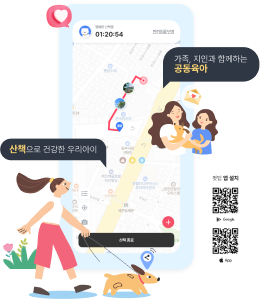
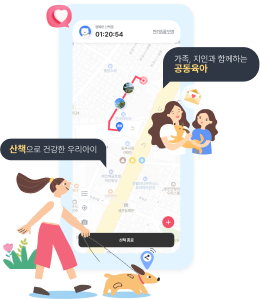
수정사항 반영

Changed region(s): [[0.8, 0.5719, 0.9231, 0.903]]

diff --git a/css/common.css b/css/common.css
@@ -2,14 +2,16 @@
 
 html, body {background-color: #CFEDFF;width: 100%;}
 @media (min-width: 1024px) {
-    html, body {height:100%;overflow: hidden;} 
+    html, body {height:100%;overflow: hidden;max-height: 920px;} 
     .btn-arrow-down {display: none;}
 }
 body.modal-open {height: 100%;overflow: hidden;}
 .wrap {width:100%;max-width: 1066px;height:100%;margin: 0 auto;display: flex;justify-content: space-between;}
 .left-sect {display: flex;flex-direction: column; padding-top: 83px;}
 .left-sect .logo {text-align: center;}
-.left-sect .main-img {margin-top: 22px;}
+.left-sect .main-img {position: relative; margin-top: 22px;}
+.left-sect .main-img .qr-box {position: absolute;right:37px;bottom:56px;width: 86px;padding:8px 0;gap: 8px; border: 1px solid #fff;border-radius: 16px;display: flex;align-items: center;justify-content: center;}
+.left-sect .main-img .qr-box dl {display: flex;flex-direction: column; gap: 8px;}
 .left-sect .footer {margin-top:30px;position: relative;font-size: 12px;color:#555;line-height: 18px;display: flex;justify-content: space-between;}
 .left-sect .footer .button-area {display: flex;flex-direction: column;justify-content: space-between; height: 100%;gap: 5px;}
 .left-sect .footer .button-area a {display: block;text-align: center;width: 106px;height: 21px;background-color: #fff;border-radius: 7px;font-size: 12px;color:#222;}
@@ -84,6 +86,7 @@ body.modal-open {height: 100%;overflow: hidden;}
 
 .hash-tag {display: flex;gap: 8px;margin-top: 60px;}
 .hash-tag a {padding: 0 12px;height: 32px;background-color: #F4F8FF;border-radius: 10px;font-size:16px;color:#4783F5;box-shadow: 0px 4px 4px rgba(0, 0, 0, 0.25);}
+.hash-tag span {padding: 0 12px;height: 32px;background-color: #F4F8FF;border-radius: 10px;font-size:16px;color:#4783F5;}
 
 .command-area {display: flex;flex-direction: column;padding: 36px 28px;}
 .command-area .command-counter {background-color: #fff;padding:0 12px;height: 36px;border-radius: 10px;font-size:16px;color:#737980;border: 1px solid #B1CEFF;display: flex;align-items: center;justify-content: center;max-width: fit-content;gap: 6px;}
@@ -125,9 +128,13 @@ body.modal-open {height: 100%;overflow: hidden;}
 .alert-wrap .btn-close-alert {width:39px;height:39px;position: absolute;right:10px;top:10px;background: url('../image/btn-close-x-bl.svg') no-repeat center;}
 
 /* 팝업 */
-.popupModal {width:100%;max-width: 620px;left: 50%;top:50%;transform: translate(-50%,-50%); position:fixed;z-index:11;}
+.popupModal {width:100%;max-width: 620px;left: 50%;top:50%;transform: translate(-50%,-50%); position:fixed;z-index:11;display:none;}
+.popupModal.is-active {display: block;}
 .popupModal .popup-inner {border-radius: 20px;width: 100%;height: 100%;overflow: hidden;background:#EF7086;}
 .popupModal .popup-inner .close-wrap {height: 72px;background-color: #FFF3C9;display: flex;align-items: center;justify-content: space-between;padding: 0 21px;}
+
+.pc-only {display: block;}
+.mo-only {display: none;}
 
 /* checkbox */
 .checkbox-wrap {display: flex;align-items: center;}
@@ -163,16 +170,22 @@ body.modal-open {height: 100%;overflow: hidden;}
 
 @media (max-width: 1023px) {
     .wrap {width:100%;max-width: 100%;height:auto;flex-direction: column;justify-content: center;}
-    .left-sect {align-items: center; padding: 10% 0;justify-content: space-between;}
-    .left-sect .footer {text-align: center;}
-    .left-sect .footer .button-area {position:relative;top:auto;right: auto; flex-direction: row;justify-content: center; height: auto;gap: 14px;margin-top: 12px;}
-    .btn-arrow-down {cursor: default; display: block;text-align:center;position: relative; width:75px;height:46px;font-size: 19px;color:#80ABFF;font-weight: 500;margin:5% auto 0;}
+    .left-sect {align-items: center; padding: 88px 0 0;justify-content: space-between;}
+    .btn-arrow-down {display: block;text-align:center;position: relative; width:75px;height:46px;font-size: 19px;color:#80ABFF;font-weight: 500;margin:35px auto;}
     .btn-arrow-down::after {content: '';margin-top:5px;width: 25px;height:18px;display:inline-block; background-image: url('../image/icon-arrow-down.svg');background-position: center;background-size: 25px auto;animation: moveUpDown 1s infinite alternate cubic-bezier(0.4, 0, 0.2, 1);}
+
+    .left-sect .footer {margin-top:22px;font-size: 14px;line-height: 19px;flex-direction: column; justify-content: center;}
+    .left-sect .footer .button-area {flex-direction: row;justify-content: center;gap: 15px;margin-top:12px;}
+    .left-sect .footer .button-area a {line-height: 22px;font-size: 12px;height: 22px;padding: 0 12px;width: auto;}
+    
+
     .right-frame {margin: 0 auto;height: 100vh;overflow: hidden;}
     .tab-area ul li button {border-radius: 15px;}
     .pc-img {display: none;}
     .mo-img {display: none;}
-    .tablet-img {display: block;}
+    .tablet-img {display: block;width: 100%;max-width: none;height: 100%;max-height: 670px;}
+    .left-sect .main-img .qr-box {right:41px;bottom:67px;width: 86px;padding:8px 0;}
+
     .modal-wrap {position: fixed;}
     @keyframes moveUpDown {
         0% {
@@ -184,15 +197,21 @@ body.modal-open {height: 100%;overflow: hidden;}
     }
 }
 
-@media (max-width: 768px) {    
-    .left-sect {padding: 8% 0;}
+@media (max-width: 767px) {    
+    .left-sect {padding: 51px 0 0;}
     .left-sect .logo img {width: 165px;}
-    .left-sect .main-img {display: flex;flex: 1; align-items: center;justify-content: center;padding: 0 42px;}
-    .left-sect .main-img img {width: 100%;max-width: 80%;}
+    .left-sect .main-img {padding: 0 26px;}
+    
     .pc-img {display: none;}
-    .mo-img {display: block;}
+    .mo-img {display: block;width: 100%;max-width: 100%;}
     .tablet-img {display: none}
-    .btn-arrow-down {margin-top: 2;}
+    .pc-only {display: none;}
+    .mo-only {display: block;}
+    .btn-arrow-down {margin-top: 22px;margin-bottom: 17px;}
+    .left-sect .main-img .qr-box {right:12px;bottom:30px;width: 43px; border-radius: 8px;padding: 6px 0;gap:0;}
+    .left-sect .main-img .qr-box dl {gap: 4px;}
+    .left-sect .main-img .qr-box dl dt img {width:31px;}
+    .left-sect .main-img .qr-box dl dd img {width:30px;}
 
     .right-frame .title-Wrap {height: 32px;}
     .right-frame .title-Wrap h2 img {width: 56px;}
@@ -208,11 +227,13 @@ body.modal-open {height: 100%;overflow: hidden;}
     .tab-cont {height: calc(100% - 136px);}
     .story-list-wrap {padding: 0 16px;}
     .item-wrap {height: auto;}
-    .item-wrap .item-infor {right:16px;bottom:12px;left: 16px;}
-    .item-wrap .item-infor a {font-size: 16px;line-height: 19px;}
-    
+    .item-wrap .item-infor {right:16px;bottom:16px;left: 16px;}    
+    .item-wrap .item-infor .label-area {margin-top: 12px;}
+    .item-wrap .item-infor .tit {font-size:16px;line-height: 19px;}
+    .item-wrap .item-infor .label-area span {font-size:12px;height: 20px;line-height:20px;padding: 0 8px;}
+    .item-wrap .util-area  {top: 16px;right: 16px;}
     .page-location-area {padding: 18px;gap:5px;}
-    .page-location-area .btn-back {width: 20px;height: 20px;background: url('../image/go-back.svg') no-repeat center;background-size: 20px auto;}
+    .page-location-area .btn-back {width: 20px;height: 20px;background-size: 13px auto;}
     .page-location-area p {font-size:16px;}
     .article-title-area {padding: 8px 16px 16px;}
     .article-title-area h2 {font-size: 20px;line-height: 24px;}
@@ -221,7 +242,10 @@ body.modal-open {height: 100%;overflow: hidden;}
     .content_wrap {height: calc(100% - 90px);}
     .command-area {padding: 26px 16px;}
     .command-inner-wrap .commond-cont .command {font-size:16px;line-height: 24px;}
-    .swiper-horizontal>.swiper-pagination-bullets, .swiper-pagination-bullets.swiper-pagination-horizontal, .swiper-pagination-custom, .swiper-pagination-fraction {bottom:0 !important;}
+    .swiper-horizontal>.swiper-pagination-bullets,
+    .swiper-pagination-bullets.swiper-pagination-horizontal, 
+    .swiper-pagination-custom, 
+    .swiper-pagination-fraction {bottom:0 !important;}
     .modal-wrap .nobg-layer ul {gap: 28px;}
     .modal-wrap .nobg-layer ul li img {width:56px;}
     .article-title-area .label-top {gap:3px;}
@@ -230,9 +254,12 @@ body.modal-open {height: 100%;overflow: hidden;}
     .hash-tag a {padding: 0 6px;height: 28px;font-size: 12px;line-height: 28px;}
 
     .left-sect .footer {margin-top:16px;font-size: 10px;line-height: 16px;flex-direction: column; justify-content: center;}
-    .left-sect .footer .button-area {flex-direction: row;justify-content: center;gap: 5px;}
-    .left-sect .footer .button-area a {line-height: 20px;font-size: 10px;}
+    .left-sect .footer .button-area {gap: 5px;}
+    .left-sect .footer .button-area a {line-height: 21px;font-size: 10px;}
     
+    .detail-section {top:33px;height: calc(100% - 33px);}
+    .content-scroll {width: 100%;height: calc(100% - 56px);overflow: auto;}
+
     .btn-wrap-more {padding: 16px 0;}
     .btn-wrap-more img {width: 33px;height:33px;}
 
@@ -240,27 +267,23 @@ body.modal-open {height: 100%;overflow: hidden;}
     .popupModal {max-width: 90%;}    
     .popupModal .popup-inner .close-wrap {height: 40px;background-color: #FFF3C9;display: flex;align-items: center;justify-content: space-between;padding: 0 21px;}
     .popupModal .popup-cont img {width: 100%;max-width: 100%;}
+    .alert-wrap {max-width: 90%;}
 
     .btn-close-popup button {font-size: 16px;}    
     .checkbox input[type="checkbox"] + label{        
-        padding-left: 25px;
+        padding-left: 20px;
         font-size:16px;        
     }
     .checkbox input[type="checkbox"] + label::after {
         content:'';        
         width: 16px;
         height: 16px;     
-        top:0px;
+        background-size: 9px auto;
+        top:2px;
     } 
     .checkbox input[id="chk-pop"]:checked + label::after{
         content:''; 
         background: #E85473 url('../image/icon-checkbox-check.svg') no-repeat center center;
         background-size: 15px auto;
     }    
-}
-
-@media (max-width: 540px) {  
-    .left-sect {padding: 10% 0;}
-    .left-sect .main-img img {max-width: 90%;}
-    .btn-arrow-down {margin-top: 6%;}
 }

diff --git a/index.html b/index.html
@@ -10,7 +10,7 @@
 </head>
 <body>
     <!--팝업-->
-    <div class="popupModal">
+    <!-- <div class="popupModal">
         <div class="popup-inner">
             <div class="popup-cont">
                 <img src="./image/notice_pop.png" alt="" />
@@ -25,11 +25,11 @@
                     </span>
                 </div>
                 <div class="btn-close-popup">
-                    <button type="button">닫기</button>
+                    <button type="button" class="btn_close">닫기</button>
                 </div>
             </div>
         </div>
-    </div>
+    </div> -->
     <!--//팝업-->
     <div class="wrap">
         <div class="left-sect">
@@ -39,6 +39,22 @@
                 </h1>
             </div>
             <div class="main-img">
+                <div class="qr-box">
+                    <dl>
+                        <dt>
+                            <img src="./image/qr-tit.png" class="pc-only" alt="" /> 
+                            <img src="./image/qr-tit-m.png" class="mo-only" alt="" />
+                        </dt>
+                        <dd>
+                            <img src="./image/qr-google.png"  class="pc-only"  alt="구글마켓" />
+                            <img src="./image/qr-google_m.png" class="mo-only"  alt="구글마켓" />
+                        </dd>
+                        <dd>
+                            <img src="./image/qr-apple.png"  class="pc-only"  alt="앱스토어" />
+                            <img src="./image/qr-apple_m.png" class="mo-only"  alt="앱스토어" />
+                        </dd>
+                    </dl>
+                </div>
                 <img src="./image/main_img.png" class="pc-img" alt="가족, 지인과 함께 하는 공동육아, 산책으로 건강한 우리아이">
                 <img src="./image/main_img_tablet.png" class="tablet-img" alt="가족, 지인과 함께 하는 공동육아, 산책으로 건강한 우리아이">
                 <img src="./image/main_img_m.png" class="mo-img" alt="가족, 지인과 함께 하는 공동육아, 산책으로 건강한 우리아이">
@@ -59,12 +75,12 @@
                     <a href="#">개인정보 처리방침</a>
                 </div>
             </div>      
-            <button class="btn-arrow-down" type="button">
+            <a href="#right-frame" class="btn-arrow-down">
                 SCROLL
-            </button> 
+            </a> 
         </div>
         <!-- left -->
-        <div class="right-frame">
+        <div class="right-frame" id="right-frame">
             <div class="title-Wrap">
                 <h2><img src="./image/pettip_h2.svg" alt="PetTip" /></h2>
                 <button class="btn-share" onclick="snsShare()">
@@ -243,7 +259,7 @@
                         </div>
                         상세내용이 출력 됩니다.상세내용이 출력 됩니다.상세내용이 출력 됩니다.상세내용이 출력 됩니다.상세내용이 출력 됩니다.상세내용이 출력 됩니다.상세내용이 출력 됩니다.상세내용이 출력 됩니다.상세내용이 출력 됩니다.상세내용이 출력 됩니다.상세내용이 출력 됩니다.상세내용이 출력 됩니다.상세내용이 출력 됩니다.상세내용이 출력 됩니다.상세내용이 출력 됩니다.상세내용이 출력 됩니다.상세내용이 출력 됩니다.상세내용이 출력 됩니다.상세내용이 출력 됩니다.상세내용이 출력 됩니다.상세내용이 출력 됩니다.상세내용이 출력 됩니다.상세내용이 출력 됩니다.상세내용이 출력 됩니다.상세내용이 출력 됩니다.상세내용이 출력 됩니다.상세내용이 출력 됩니다.상세내용이 출력 됩니다.상세내용이 출력 됩니다.상세내용이 출력 됩니다.상세내용이 출력 됩니다.상세내용이 출력 됩니다.
                         <div class="hash-tag">
-                            <a href="#">해시태그1</a><a href="#">해시태그2</a><a href="#">해시태그3</a><a href="#">해시태그4</a>
+                            <span>해시태그1</span><span>해시태그2</span><span>해시태그3</span><span>해시태그4</span>
                         </div>
                     </div> 
                     <div class="command-area">

diff --git a/js/ui.js b/js/ui.js
@@ -91,9 +91,48 @@ tabButtons.forEach(button => {
 });
 
 // 공지팝업
-const closeNotice = document.querySelector('.btn-close-popup button')
-closeNotice && closeNotice.addEventListener('click', () => {
-    document.querySelector('.popupModal').style.display = 'none';
+const toggleMainPopup = () => {
+    const handleCookie = {
+        setCookie: (name, val, exp) => {
+            const date = new Date();
+            date.setTime(date.getTime() + exp * 24 * 60 * 60 * 1000);
+            document.cookie = name + "=" + val + ";expires=" + date.toUTCString() + ";";
+        },
+        getCookie: (name) => {
+            const value = document.cookie.match("(^|;) ?" + name + "=([^;]*)(;|$)");
+            return value ? value[2] : null;
+        }
+    };
+    
+    if (handleCookie.getCookie("today") == "y") {
+        document.querySelector(".popupModal").classList.remove("is-active");
+    } else {
+        document.querySelector(".popupModal").classList.add("is-active");
+    }
+
+    const todayChk = document.getElementById("chk-pop");
+    todayChk.addEventListener('change', () => {
+        if (todayChk.checked) {        
+            handleCookie.setCookie("today", "y", 1);
+        } else {        
+            handleCookie.setCookie("today", "", -1);
+        }
+    });
+
+    const noticePopupClose = document.querySelector(".btn-close-popup .btn_close");
+    noticePopupClose.addEventListener("click", () => {
+        const popupModal = noticePopupClose.closest(".popupModal.is-active");
+        if (popupModal && !todayChk.checked) {
+            handleCookie.setCookie("today", "y", 1);
+        }
+        if (popupModal) {
+            popupModal.classList.remove("is-active");
+        }
+    });
+}
+
+document.addEventListener("DOMContentLoaded", () => {
+    toggleMainPopup();
 });
 
 //상세 
@@ -109,6 +148,13 @@ listTrigger.forEach(trigger => {
 
 //상세 닫기
 const detailClose = document.querySelector('.btn-back');
-detailClose.addEventListener('click', () => {
-    document.querySelector('.detail-section').style.display = ""
+detailClose && detailClose.addEventListener('click', () => {
+    document.querySelector('.detail-section').style.display = "";
 })
+
+// 스크롤 탑
+document.querySelector('.btn-arrow-down').addEventListener('click', function(e) {
+    e.preventDefault();
+    const id = this.getAttribute('href');
+    document.querySelector(id).scrollIntoView({ behavior: 'smooth' });
+});
